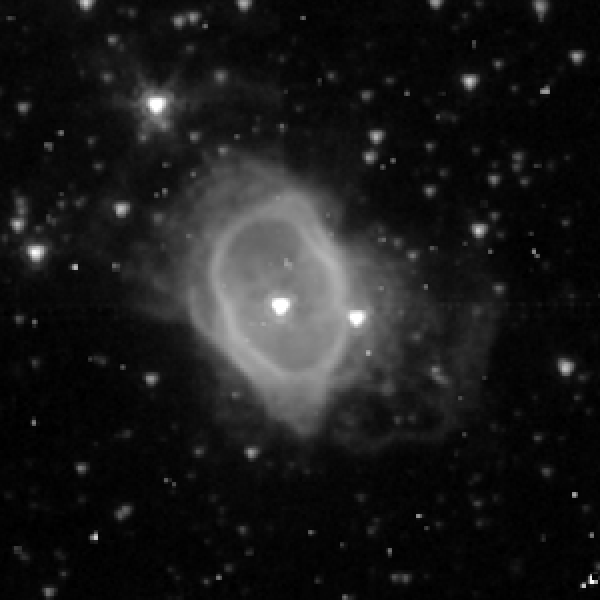
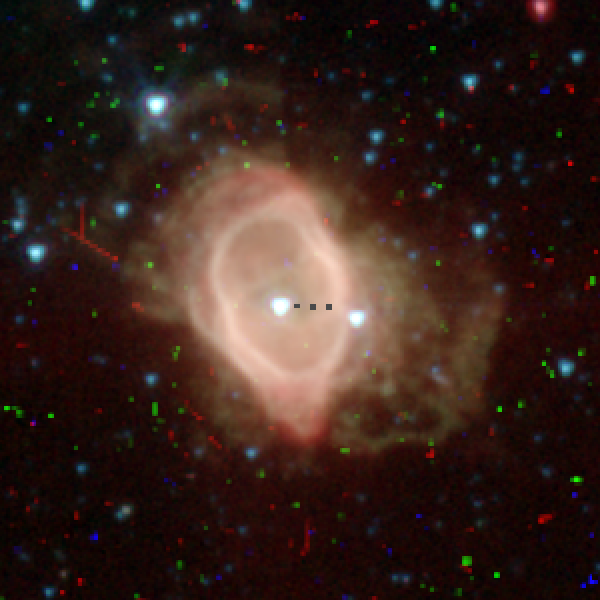
docs(telescopes): one example picture per telescope, made from the toolkit's own product

diff --git a/docs/telescope-examples.md b/docs/telescope-examples.md
@@ -7,7 +7,11 @@ product that toolkit has already produced here. Nothing on this page is an archi
 Every picture comes from one renderer, `tools/objects/telescopes/example-picture.mts`, and one checked-in recipe,
 `tools/objects/telescopes/examples.json`. The recipe states the file, the extension or plane, the pixel window, the unit
 the numbers are in, the two values drawn as black and white, the stretch between them, which way up the picture is, the
-whole-number enlargement and the colours. Every source sample becomes a block of equal output pixels. Nothing is
+whole-number enlargement and the colours. Three pictures are in colour, because three measurements of the same target
+exist on one pixel grid: each measurement is stretched on its own limits in its own unit and put straight into red,
+green or blue. That is representative colour, not what an eye would see, and each caption says which band is which
+channel. Channels that do not share a grid are refused rather than resampled onto one another. The rest are grey
+because there is only one measurement to draw. Every source sample becomes a block of equal output pixels. Nothing is
 smoothed, sharpened, interpolated or cleaned up, and a value outside the stated range is clipped rather than rescaled.
 The recipe also pins each product's sha256 and the command that makes it, so the whole chain can be re-run:
 
@@ -21,15 +25,16 @@ records that directory too. The commands below are written as they are run from 
 
 ## JWST, NIRCam: the Southern Ring Nebula
 
-![A bright oval nebula with a ragged rim and two spiked stars at its centre](telescopes/jwst-nircam-ngc3132.webp)
+![A cream and pink oval nebula with a ragged rim and two blue-white spiked stars at its centre](telescopes/jwst-nircam-ngc3132.webp)
 
-NGC 3132 on 3 June 2022 through NIRCam's F187N filter, re-run here through the pipeline's level-3 image stage onto this
-repository's own grid. Brightness is surface brightness in MJy/sr, from 0 to 300, asinh softened at 3. North is up and
-east left, from the mosaic's own world coordinates. F187N is a narrow filter on the hydrogen Paschen alpha line, so the
-shells stand out and most stars stay faint. The two stars in the middle are the pair at the heart of the nebula; the
-dying star that made it is the fainter one.
+NGC 3132 on 3 June 2022, three NIRCam filters re-run here through the pipeline's level-3 image stage onto one grid.
+Representative colour, not what an eye would see: red is F405N at 4.05 microns from 0 to 45 MJy/sr, green is F187N at
+1.87 microns from 0 to 180, blue is F090W at 0.90 microns from 0.2 to 25, each asinh softened at 2, 4 and 1. North is up
+and east left, from the mosaics' own world coordinates. F187N and F405N are narrow filters on hydrogen lines, which is
+why the shells stand out and the stars, bright in the wide blue filter, come out blue-white. The two stars in the middle
+are the pair at the heart of the nebula; the dying star that made it is the fainter one.
 
-`node tools/objects/jwst/imaging/image3.mts ngc-3132-2733 NIRCAM-F187N output/jwst-imaging/f187n-grid --grid src/objects/ngc-3132/source/sky-bands/jwst-nircam.json`
+`node tools/objects/jwst/imaging/image3.mts ngc-3132-2733 NIRCAM-<band> output/jwst-imaging/<band>-grid --grid src/objects/ngc-3132/source/sky-bands/jwst-nircam.json`
 
 ## JWST, NIRSpec: the ring around SN 1987A
 
@@ -110,28 +115,32 @@ around it is the adaptive optics halo, which is in the data, and there is no sur
 
 ## Chandra: Cassiopeia A in X-rays
 
-![A grainy round shell of bright filaments filling the frame, on a black background](telescopes/chandra-acis-cassiopeia-a.webp)
+![A grainy round shell of yellow-green and blue filaments filling the frame, on a black background](telescopes/chandra-acis-cassiopeia-a.webp)
 
 Cassiopeia A on 27 August 1999, a 3.6 ks ACIS-I observation reprocessed from level 1 on Chandra's own software, with
-the resulting events binned here into squares 2 by 2 sky pixels, 0.98 arcseconds a bin. Brightness is counts per bin,
-from 0 to 40, asinh softened at 1. North is up and east left. One dot is one detected X-ray photon between 0.5 and 7
-keV, 831,854 of the observation's 839,545 events, so this is counts, not brightness, and the graininess is the photon
-statistics of a short exposure rather than anything in the rendering. This observation is new here: the Chandra product
+the resulting events binned here into squares 2 by 2 sky pixels, 0.98 arcseconds a bin. Representative colour, not what
+an eye would see: the same event list split by photon energy into the conventional soft, medium and hard bands, red 0.5
+to 1.5 keV from 0 to 25 counts a bin, green 1.5 to 3.0 keV from 0 to 30, blue 3.0 to 7.0 keV from 0 to 6, each asinh
+softened at 1. All three are the same bins of the same list, so nothing is resampled. North is up and east left. One dot
+is one detected X-ray photon, so this is counts, not brightness, and the graininess is the photon statistics of a short
+exposure rather than anything in the rendering. This observation is new here: the Chandra product
 already on disk was a deliberately offset pointing that keeps the Crab Nebula off the detector, so Cas A was pinned and
 reprocessed, and the toolkit's event-by-event comparison against the archive matched all 839,545 events.
 
 `node tools/objects/chandra/reprocess.mts casa-acisi 210 .local/chandra/casa-acisi`
 
-## Spitzer, IRAC: NGC 3132 at 3.6 microns
+## Spitzer, IRAC: NGC 3132 in the infrared
 
-![A faint ring-shaped nebula with a bright pair of stars at its centre, among many field stars](telescopes/spitzer-irac-ngc3132.webp)
+![A salmon-pink ring-shaped nebula with a bright pair of stars at its centre, among blue-white field stars](telescopes/spitzer-irac-ngc3132.webp)
 
-The IRAC channel 1 mosaic of NGC 3132, re-made here from the archive's own twelve level-1 frames of AOR 4416768.
-Brightness is surface brightness in MJy/sr, from 0.05 to 30, asinh softened at 0.2. The mosaic keeps the observation's
-own rotation: north lies 303.4 degrees and east 213.4 degrees clockwise from up, measured from the mosaic's own world
-coordinates, and the picture is the stored rows with the first at the bottom. This is the same nebula as the NIRCam
-picture above, at nearly seven times the pixel size: at 3.6 microns most of what is bright is stars, and the nebula's
-shell is faint but plainly there.
+Three of the four IRAC channels of NGC 3132, re-made here from the archive's own twelve level-1 frames of AOR 4416768
+and mosaicked onto one grid. Representative colour, not what an eye would see: red is channel 4 at 8.0 microns from 2.6
+to 25 MJy/sr, green is channel 2 at 4.5 microns from 0.07 to 20, blue is channel 1 at 3.6 microns from 0.05 to 20, each
+asinh softened at 0.5, 0.2 and 0.2. The mosaics keep the observation's own rotation: north lies 303.4 degrees and east
+213.4 degrees clockwise from up, and the picture is the stored rows with the first at the bottom. The nebula is pink
+because its shell is brightest at 8 microns, and the stars are blue-white because they are brightest at 3.6. The
+scattered single-colour specks are cosmic ray hits that survived in one channel only; a few dark pixels near the centre
+are missing from channel 4. This is the same nebula as the NIRCam picture above, at nearly seven times the pixel size.
 
 `node tools/objects/spitzer/mosaic.mts ngc3132-4416768`
 
